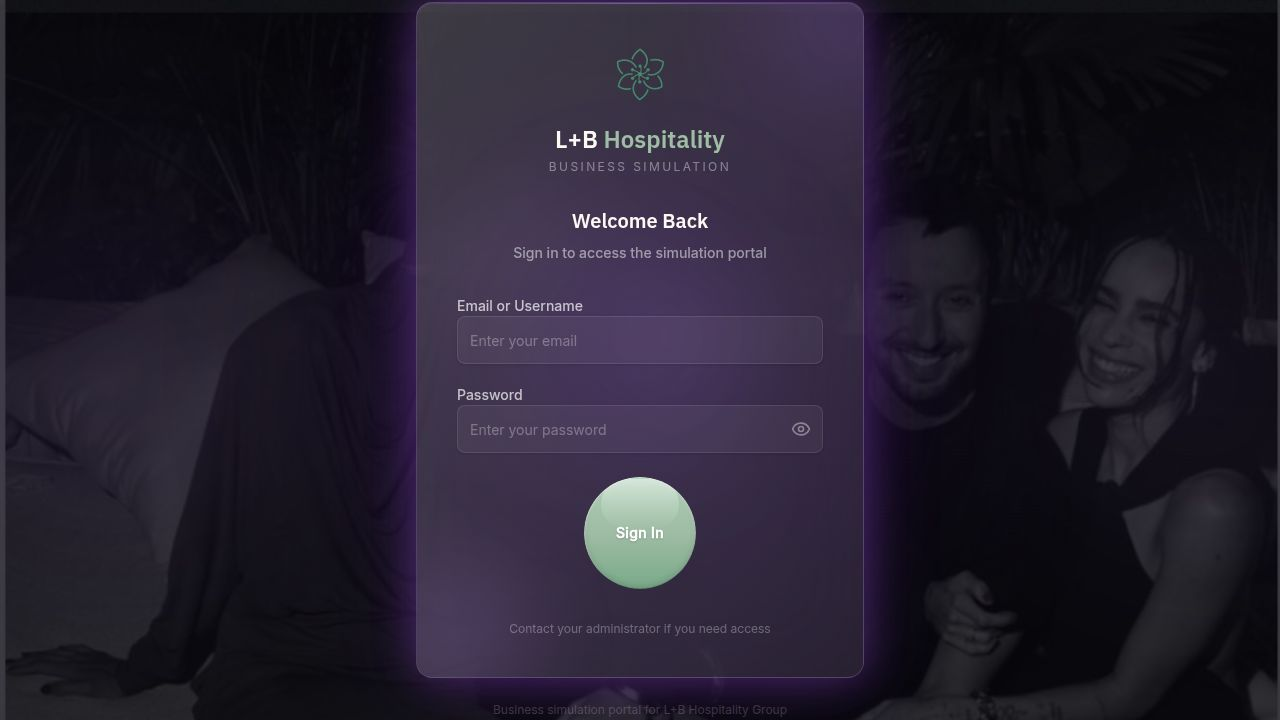
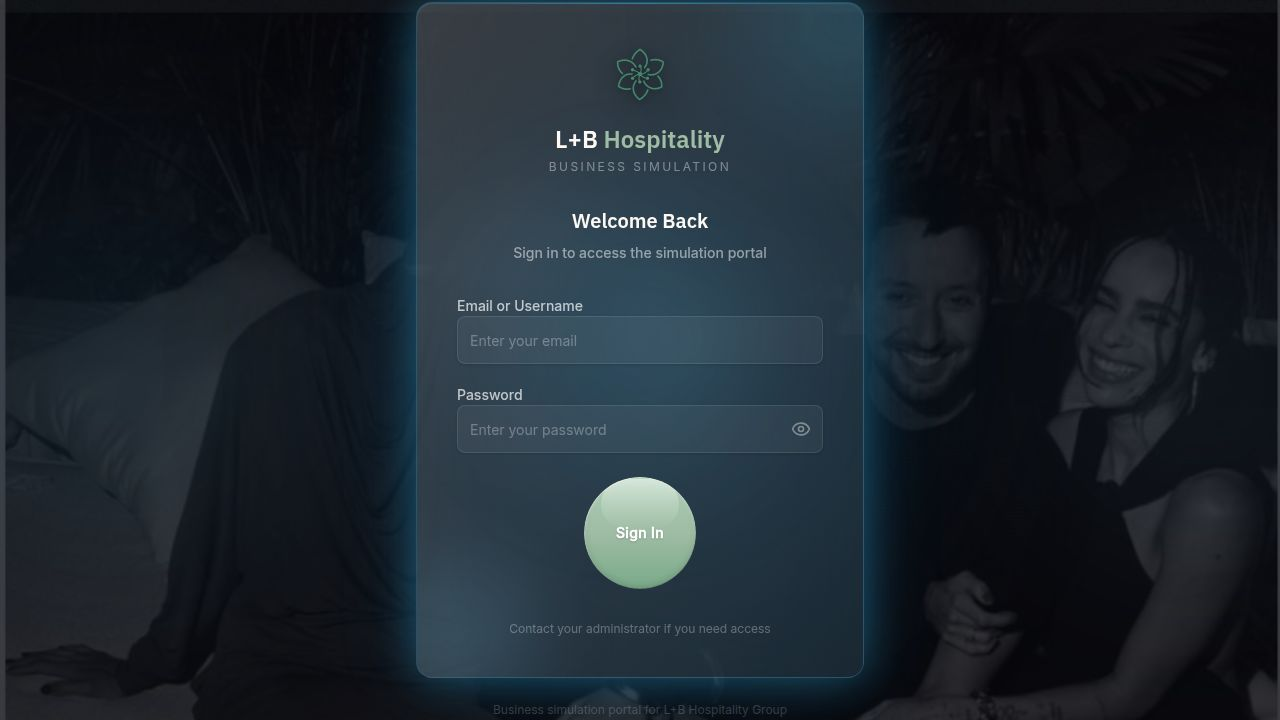
Update the sign-in page appearance with a new visual theme
Modify the login page by updating the logo's drop shadow and applying a new filter for a distinct visual style.

Replit-Commit-Author: Agent
Replit-Commit-Session-Id: 0d9f4f3d-5fc3-4fea-bf0d-32c0671e4ea2
Replit-Commit-Checkpoint-Type: full_checkpoint
Replit-Commit-Event-Id: 3f7fd744-9e1b-40e3-a642-b303dc8e8a3e
Replit-Commit-Screenshot-Url: https://storage.googleapis.com/screenshot-production-us-central1/e53ea481-4c36-4e2a-8bfc-80697f311b65/0d9f4f3d-5fc3-4fea-bf0d-32c0671e4ea2/ngRkI3w
Replit-Helium-Checkpoint-Created: true

diff --git a/client/src/pages/Login.tsx b/client/src/pages/Login.tsx
@@ -98,7 +98,8 @@ export default function Login() {
               <img 
                 src={logo} 
                 alt="L+B Hospitality" 
-                className="w-16 h-16 object-contain mb-4 cursor-pointer opacity-90 hover:opacity-100 transition-all drop-shadow-[0_4px_12px_rgba(56,189,248,0.4)] hover:drop-shadow-[0_6px_20px_rgba(56,189,248,0.6)]" 
+                className="w-16 h-16 object-contain mb-4 cursor-pointer opacity-90 hover:opacity-100 transition-all"
+                style={{ filter: "drop-shadow(0 8px 16px rgba(0,0,0,0.5)) drop-shadow(0 2px 4px rgba(0,0,0,0.4))" }} 
                 onClick={handleAdminLogin}
               />
               <h1 className="text-2xl font-display text-[#FFF9F5] mb-1">
